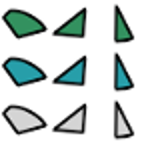
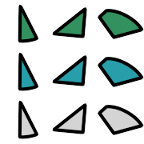
upscaled blade, gun, and shards

diff --git a/src/states/load.js b/src/states/load.js
@@ -11,8 +11,8 @@ export default class LoadState extends Phaser.State {
 		game.load.spritesheet('player', 'img/player.png', 64, 86);
 		game.load.spritesheet('background', 'img/bg.png', 630, 2000);
 		game.load.spritesheet('hoverer', 'img/hoverer.png', 96, 120);
-		game.load.spritesheet('gun', 'img/gun.png', 70, 40);
-		game.load.spritesheet('blade', 'img/blade.png', 68, 174);
+		game.load.spritesheet('gun', 'img/gun.png', 67, 40);
+		game.load.spritesheet('blade', 'img/blade.png', 68, 175);
 		game.load.spritesheet('eye', 'img/eye.png', 40, 40);
 		game.load.spritesheet('shards', 'img/shards.png', 48, 48);
 		game.load.spritesheet('bullet', 'img/bullet.png', 30, 20);
